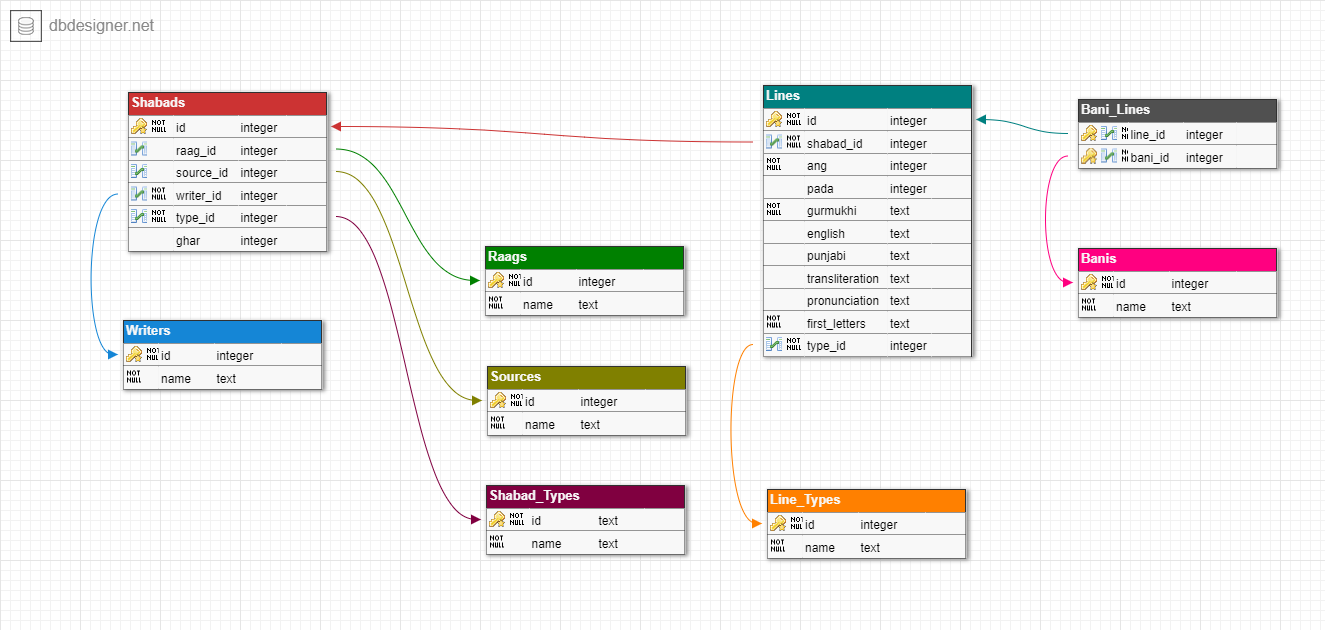
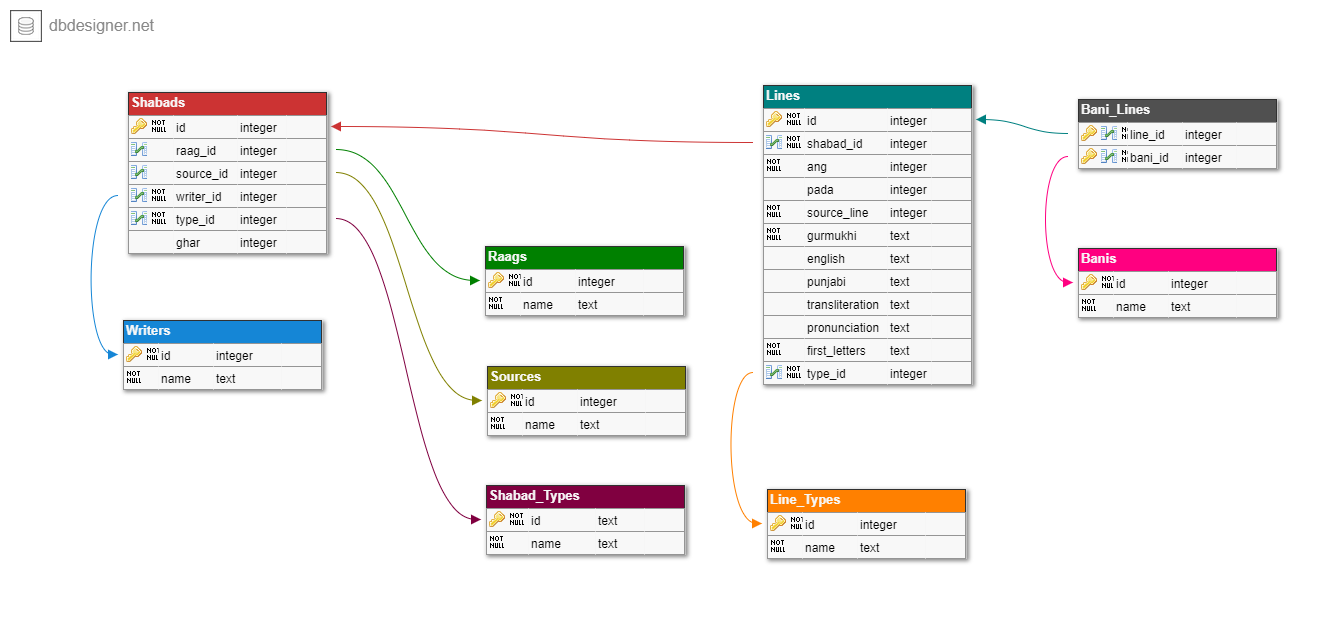
schema: add `pada` and `source_line` to `Lines`

diff --git a/migrations/schema.js b/migrations/schema.js
@@ -41,11 +41,13 @@ exports.up = knex => Promise.all( [
     table.integer( 'ang' ).notNullable()
     table.integer( 'shabad_id' ).references( 'id' ).inTable( 'shabads' ).notNullable()
     table.text( 'gurmukhi' ).notNullable()
+    table.integer( 'pada' )
+    table.integer( 'source_line' )
     table.text( 'first_letters' )
     table.text( 'english' )
     table.text( 'punjabi' )
     table.text( 'transliteration' )
-    table.text( 'pronounciation' )
+    table.text( 'pronunciation' )
     table.integer( 'type_id' ).references( 'id' ).inTable( 'line_types' )
   } ),
 
